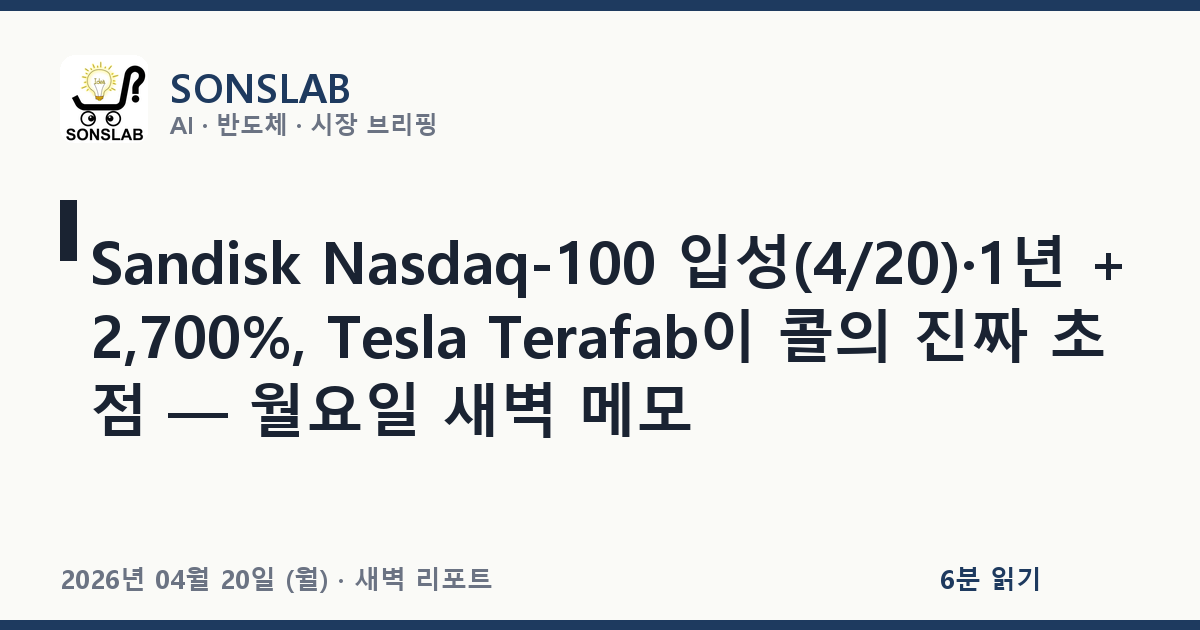
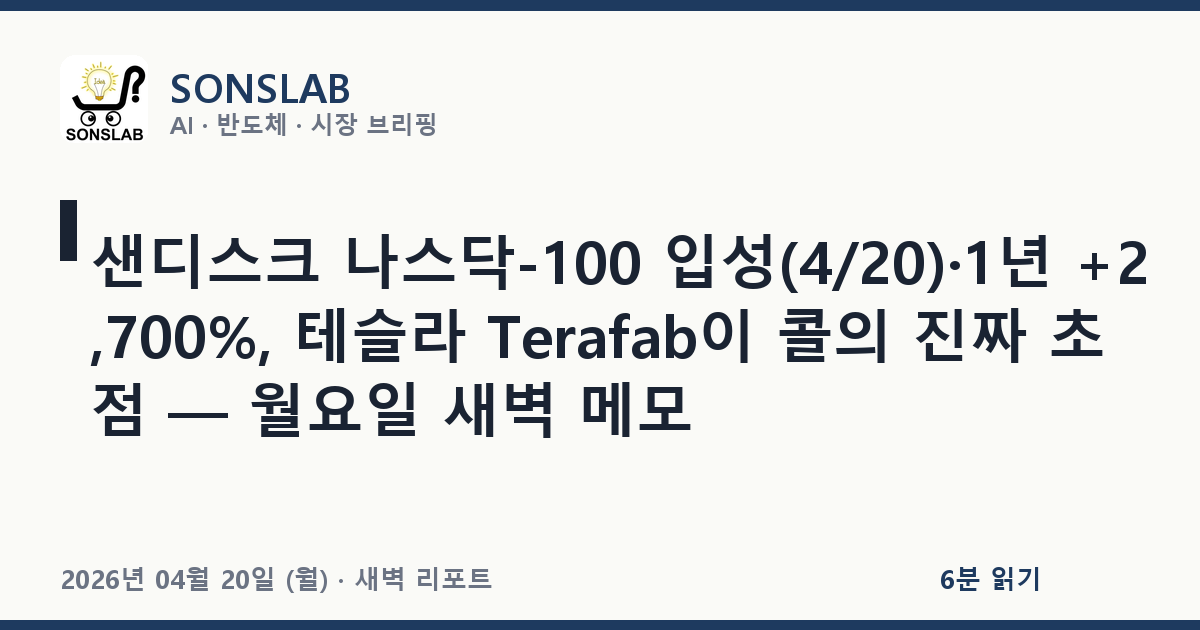
Update: 2026-04-20 18:40

diff --git a/posts/2026-04-20-am06-ai-tech-news.html b/posts/2026-04-20-am06-ai-tech-news.html
@@ -3,7 +3,7 @@
 <head>
     <meta charset="UTF-8">
     <meta name="viewport" content="width=device-width, initial-scale=1.0">
-    <title>Sandisk Nasdaq-100 입성(4/20)·1년 +2,700%, Tesla Terafab이 콜의 진짜 초점 — 월요일 새벽 메모 — SONSLAB</title>
+    <title>샌디스크 나스닥-100 입성(4/20)·1년 +2,700%, 테슬라 Terafab이 콜의 진짜 초점 — 월요일 새벽 메모 — SONSLAB</title>
     <link rel="icon" href="../assets/logo.jpg">
     <link rel="alternate" type="application/atom+xml" title="SONSLAB Feed" href="../feed.xml">
     <link rel="preconnect" href="https://fonts.googleapis.com">
@@ -16,13 +16,13 @@
     <link rel="canonical" href="https://shonsubong.github.io/sonslab-blog/posts/2026-04-20-am06-ai-tech-news.html">
     <meta property="og:site_name" content="SONSLAB">
     <meta property="og:type" content="article">
-    <meta property="og:title" content="Sandisk Nasdaq-100 입성(4/20)·1년 +2,700%, Tesla Terafab이 콜의 진짜 초점 — 월요일 새벽 메모">
+    <meta property="og:title" content="샌디스크 나스닥-100 입성(4/20)·1년 +2,700%, 테슬라 Terafab이 콜의 진짜 초점 — 월요일 새벽 메모">
     <meta property="og:description" content="월요일 새벽, 미국장은 이따 열린다. 주말 내내 쓰인 얘기들을 월요일 아침에 다시 꺼내는 건 피하고 싶어서, 오늘 장 열리기 전까지 오늘 실제로 새로 벌어지는 일 두 개만 짚고 출근 준비한다.">
     <meta property="og:url" content="https://shonsubong.github.io/sonslab-blog/posts/2026-04-20-am06-ai-tech-news.html">
     <meta property="og:image" content="https://shonsubong.github.io/sonslab-blog/assets/og/2026-04-20-am06-ai-tech-news.png">
     <meta property="og:locale" content="ko_KR">
     <meta name="twitter:card" content="summary_large_image">
-    <meta name="twitter:title" content="Sandisk Nasdaq-100 입성(4/20)·1년 +2,700%, Tesla Terafab이 콜의 진짜 초점 — 월요일 새벽 메모">
+    <meta name="twitter:title" content="샌디스크 나스닥-100 입성(4/20)·1년 +2,700%, 테슬라 Terafab이 콜의 진짜 초점 — 월요일 새벽 메모">
     <meta name="twitter:description" content="월요일 새벽, 미국장은 이따 열린다. 주말 내내 쓰인 얘기들을 월요일 아침에 다시 꺼내는 건 피하고 싶어서, 오늘 장 열리기 전까지 오늘 실제로 새로 벌어지는 일 두 개만 짚고 출근 준비한다.">
     <meta name="twitter:image" content="https://shonsubong.github.io/sonslab-blog/assets/og/2026-04-20-am06-ai-tech-news.png">
     <meta property="article:published_time" content="2026-04-20T06:12:00+09:00">
@@ -56,8 +56,8 @@
     } catch (e) {}
 })();
 </script>
-    <script type="application/ld+json">{"@context": "https://schema.org", "@type": "BlogPosting", "headline": "Sandisk Nasdaq-100 입성(4/20)·1년 +2,700%, Tesla Terafab이 콜의 진짜 초점 — 월요일 새벽 메모", "description": "월요일 새벽, 미국장은 이따 열린다. 주말 내내 쓰인 얘기들을 월요일 아침에 다시 꺼내는 건 피하고 싶어서, 오늘 장 열리기 전까지 오늘 실제로 새로 벌어지는 일 두 개만 짚고 출근 준비한다.", "url": "https://shonsubong.github.io/sonslab-blog/posts/2026-04-20-am06-ai-tech-news.html", "mainEntityOfPage": "https://shonsubong.github.io/sonslab-blog/posts/2026-04-20-am06-ai-tech-news.html", "inLanguage": "ko", "image": "https://shonsubong.github.io/sonslab-blog/assets/og/2026-04-20-am06-ai-tech-news.png", "author": {"@type": "Person", "name": "SONSLAB"}, "publisher": {"@type": "Organization", "name": "SONSLAB", "logo": {"@type": "ImageObject", "url": "https://shonsubong.github.io/sonslab-blog/assets/logo.jpg"}}, "datePublished": "2026-04-20T06:12:00+09:00", "dateModified": "2026-04-20T06:12:00+09:00"}</script>
-    <script type="application/ld+json">{"@context": "https://schema.org", "@type": "BreadcrumbList", "itemListElement": [{"@type": "ListItem", "position": 1, "name": "SONSLAB", "item": "https://shonsubong.github.io/sonslab-blog/"}, {"@type": "ListItem", "position": 2, "name": "글", "item": "https://shonsubong.github.io/sonslab-blog/#posts"}, {"@type": "ListItem", "position": 3, "name": "Sandisk Nasdaq-100 입성(4/20)·1년 +2,700%, Tesla Terafab이 콜의 진짜 초점 — 월요일 새벽 메모", "item": "https://shonsubong.github.io/sonslab-blog/posts/2026-04-20-am06-ai-tech-news.html"}]}</script>
+    <script type="application/ld+json">{"@context": "https://schema.org", "@type": "BlogPosting", "headline": "샌디스크 나스닥-100 입성(4/20)·1년 +2,700%, 테슬라 Terafab이 콜의 진짜 초점 — 월요일 새벽 메모", "description": "월요일 새벽, 미국장은 이따 열린다. 주말 내내 쓰인 얘기들을 월요일 아침에 다시 꺼내는 건 피하고 싶어서, 오늘 장 열리기 전까지 오늘 실제로 새로 벌어지는 일 두 개만 짚고 출근 준비한다.", "url": "https://shonsubong.github.io/sonslab-blog/posts/2026-04-20-am06-ai-tech-news.html", "mainEntityOfPage": "https://shonsubong.github.io/sonslab-blog/posts/2026-04-20-am06-ai-tech-news.html", "inLanguage": "ko", "image": "https://shonsubong.github.io/sonslab-blog/assets/og/2026-04-20-am06-ai-tech-news.png", "author": {"@type": "Person", "name": "SONSLAB"}, "publisher": {"@type": "Organization", "name": "SONSLAB", "logo": {"@type": "ImageObject", "url": "https://shonsubong.github.io/sonslab-blog/assets/logo.jpg"}}, "datePublished": "2026-04-20T06:12:00+09:00", "dateModified": "2026-04-20T06:12:00+09:00"}</script>
+    <script type="application/ld+json">{"@context": "https://schema.org", "@type": "BreadcrumbList", "itemListElement": [{"@type": "ListItem", "position": 1, "name": "SONSLAB", "item": "https://shonsubong.github.io/sonslab-blog/"}, {"@type": "ListItem", "position": 2, "name": "글", "item": "https://shonsubong.github.io/sonslab-blog/#posts"}, {"@type": "ListItem", "position": 3, "name": "샌디스크 나스닥-100 입성(4/20)·1년 +2,700%, 테슬라 Terafab이 콜의 진짜 초점 — 월요일 새벽 메모", "item": "https://shonsubong.github.io/sonslab-blog/posts/2026-04-20-am06-ai-tech-news.html"}]}</script>
 </head>
 <body class="post-page">
     <div class="reading-progress" id="reading-progress" role="progressbar" aria-label="읽기 진행률"></div>
@@ -101,7 +101,7 @@
 <article class="post-article">
     <div class="post-header">
         <a href="../index.html" class="back-link">← 전체 글 목록</a>
-        <h1>Sandisk Nasdaq-100 입성(4/20)·1년 +2,700%, Tesla Terafab이 콜의 진짜 초점 — 월요일 새벽 메모</h1>
+        <h1>샌디스크 나스닥-100 입성(4/20)·1년 +2,700%, 테슬라 Terafab이 콜의 진짜 초점 — 월요일 새벽 메모</h1>
         <div class="post-meta">
             <span class="time-label">새벽 리포트</span>
             <span>2026년 04월 20일 (월) · 06:12</span>
@@ -117,9 +117,9 @@
     <details class="post-toc" open><summary>목차</summary><div class="toc">
 <div class="toc">
 <ul>
-<li><a href="#sandisk-nasdaq-100-4201-2700-tesla-terafab">Sandisk Nasdaq-100 입성(4/20)·1년 +2,700%, Tesla Terafab이 콜의 진짜 초점 — 월요일 새벽 메모</a><ul>
-<li><a href="#sandisk-nasdaq-100-atlassian">Sandisk가 오늘 Nasdaq-100에 들어간다 — Atlassian이 빠진다</a></li>
-<li><a href="#tesla-q1-d-2-eps-terafab-capex">Tesla Q1 D-2 — 콜의 진짜 초점은 EPS가 아니라 Terafab CapEx 가이드</a></li>
+<li><a href="#-100-4201-2700-terafab">샌디스크 나스닥-100 입성(4/20)·1년 +2,700%, 테슬라 Terafab이 콜의 진짜 초점 — 월요일 새벽 메모</a><ul>
+<li><a href="#-100-atlassian">샌디스크가 오늘 나스닥-100에 들어간다 — Atlassian이 빠진다</a></li>
+<li><a href="#1-d-2-eps-terafab">테슬라 1분기 D-2 — 콜의 진짜 초점은 EPS가 아니라 Terafab 설비투자 가이드</a></li>
 </ul>
 </li>
 </ul>
@@ -128,17 +128,17 @@
 </div>
 </details>
     <div class="post-content">
-<h1 id="sandisk-nasdaq-100-4201-2700-tesla-terafab">Sandisk Nasdaq-100 입성(4/20)·1년 +2,700%, Tesla Terafab이 콜의 진짜 초점 — 월요일 새벽 메모</h1>
+<h1 id="-100-4201-2700-terafab">샌디스크 나스닥-100 입성(4/20)·1년 +2,700%, 테슬라 Terafab이 콜의 진짜 초점 — 월요일 새벽 메모</h1>
 <p>월요일 새벽, 미국장은 이따 열린다. 주말 내내 쓰인 얘기들을 월요일 아침에 다시 꺼내는 건 피하고 싶어서, 오늘 장 열리기 전까지 <strong>오늘 실제로 새로 벌어지는 일</strong> 두 개만 짚고 출근 준비한다.</p>
 <hr />
-<h2 id="sandisk-nasdaq-100-atlassian">Sandisk가 오늘 Nasdaq-100에 들어간다 — Atlassian이 빠진다</h2>
-<p><a href="https://ir.nasdaq.com/news-releases/news-release-details/sandisk-corporation-join-nasdaq-100-indexr-beginning-april-20">Nasdaq 공시</a>와 <a href="https://www.globenewswire.com/news-release/2026/04/11/3272086/6948/en/Sandisk-Corporation-to-Join-the-Nasdaq-100-Index-Beginning-April-20-2026.html">Globe Newswire 릴리스</a>에 따르면 오늘(4/20) 장 시작 전에 Sandisk(SNDK)가 Atlassian(TEAM)을 대신해서 Nasdaq-100에 편입된다. 편입 발표 이후 주가는 <a href="https://finance.yahoo.com/markets/stocks/articles/sandisk-sndk-joins-nasdaq-100-002337717.html">한 달 만에 +50%, 지난 1년 +2,700%</a>. 2025년 초 Western Digital에서 스핀오프된 뒤 데이터센터 스토리지 수요에 올라타서 여기까지 왔다.</p>
-<p>이 교체가 단순한 리밸런싱이 아닌 이유는 <strong>"어떤 종목이 빠지고 어떤 종목이 들어가는가"</strong> 의 의미 때문이다. Atlassian — 협업·지식관리 SaaS의 대표주 — 가 나가고, NAND·SSD 만드는 회사가 들어간다. <a href="https://sherwood.news/markets/sandisk-to-join-the-nasdaq-100-index/">Sherwood News</a>와 <a href="https://markets.financialcontent.com/stocks/article/marketminute-2026-4-14-silicon-renaissance-sandisk-set-to-join-nasdaq-100-as-atlassian-exits-in-major-ai-driven-index-reshuffle">FinancialContent</a>가 "Silicon Renaissance"라는 표현을 쓰는 게 그래서다. 지난 몇 년간 밸류 확장의 중심이 SaaS였다면, 2024~2026년은 그 자리를 AI 인프라·메모리·스토리지 하드웨어가 채우고 있다.</p>
-<p>반도체 업계 안에서 일하는 입장에서 이 뉴스의 진짜 무게는 지수 편입 자체가 아니라, <strong>메모리/스토리지 공급 사이클의 온도계</strong>라는 데 있다. 지난주에 정리했던 SK하이닉스·삼성 HBM4 진도, 엔비디아의 Q4 16-Hi HBM 요청, 삼성 <a href="https://www.trendforce.com/news/2025/12/30/news-samsung-reportedly-plans-50-hbm-capacity-surge-in-2026-spotlight-on-hbm4">HBM 캐파 +50% 계획</a> — 이게 다 같은 그림의 조각이다. 데이터센터 낸드·SSD까지 비슷한 공급 타이트니스에 걸려 있고, <a href="https://www.trendforce.com/news/2025/12/24/news-samsung-sk-hynix-reportedly-plan-20-hbm3e-price-hike-for-2026-as-nvidia-h200-asic-demand-rises/">TrendForce의 HBM3E +20% 가격 인상 리포트</a>까지 겹치면 "2026년 메모리 사이클은 AI가 밀어 올린다"가 확인되는 구간이다. 현직자 입장에서는 패키징 라인 예약이 언제까지 꽉 차 있을지, 서브스트레이트 공급이 정상화되는 포인트가 언제일지가 훨씬 더 체감에 가깝다.</p>
-<p>정리하면, 오늘의 Nasdaq-100 리셔플은 <strong>"AI 수요 → 메모리·스토리지 하드웨어 수혜 → 지수 편입"</strong> 이라는 긴 체인의 마지막 한 칸이 채워지는 신호에 가깝다. SaaS 밸류가 당분간 하드웨어 밸류를 못 따라잡는다는 말로 바꿔도 큰 틀은 비슷하다.</p>
+<h2 id="-100-atlassian">샌디스크가 오늘 나스닥-100에 들어간다 — Atlassian이 빠진다</h2>
+<p><a href="https://ir.nasdaq.com/news-releases/news-release-details/sandisk-corporation-join-nasdaq-100-indexr-beginning-april-20">Nasdaq 공시</a>와 <a href="https://www.globenewswire.com/news-release/2026/04/11/3272086/6948/en/Sandisk-Corporation-to-Join-the-Nasdaq-100-Index-Beginning-April-20-2026.html">Globe Newswire 릴리스</a>에 따르면 오늘(4/20) 장 시작 전에 샌디스크(SNDK)가 Atlassian(TEAM)을 대신해서 나스닥-100에 편입된다. 편입 발표 이후 주가는 <a href="https://finance.yahoo.com/markets/stocks/articles/sandisk-sndk-joins-nasdaq-100-002337717.html">한 달 만에 +50%, 지난 1년 +2,700%</a>. 2025년 초 웨스턴디지털에서 스핀오프된 뒤 데이터센터 스토리지 수요에 올라타서 여기까지 왔다.</p>
+<p>이 교체가 단순한 리밸런싱이 아닌 이유는 <strong>"어떤 종목이 빠지고 어떤 종목이 들어가는가"</strong> 의 의미 때문이다. Atlassian — 협업·지식관리 SaaS의 대표주 — 가 나가고, 낸드·SSD 만드는 회사가 들어간다. <a href="https://sherwood.news/markets/sandisk-to-join-the-nasdaq-100-index/">Sherwood News</a>와 <a href="https://markets.financialcontent.com/stocks/article/marketminute-2026-4-14-silicon-renaissance-sandisk-set-to-join-nasdaq-100-as-atlassian-exits-in-major-ai-driven-index-reshuffle">FinancialContent</a>가 "실리콘 르네상스"라는 표현을 쓰는 게 그래서다. 지난 몇 년간 밸류 확장의 중심이 SaaS였다면, 2024~2026년은 그 자리를 AI 인프라·메모리·스토리지 하드웨어가 채우고 있다.</p>
+<p>반도체 업계 안에서 일하는 입장에서 이 뉴스의 진짜 무게는 지수 편입 자체가 아니라, <strong>메모리/스토리지 공급 사이클의 온도계</strong>라는 데 있다. 지난주에 정리했던 SK하이닉스·삼성 HBM4 진도, 엔비디아의 4분기 16단 HBM 요청, 삼성 <a href="https://www.trendforce.com/news/2025/12/30/news-samsung-reportedly-plans-50-hbm-capacity-surge-in-2026-spotlight-on-hbm4">HBM 생산능력 +50% 계획</a> — 이게 다 같은 그림의 조각이다. 데이터센터 낸드·SSD까지 비슷한 공급 타이트니스에 걸려 있고, <a href="https://www.trendforce.com/news/2025/12/24/news-samsung-sk-hynix-reportedly-plan-20-hbm3e-price-hike-for-2026-as-nvidia-h200-asic-demand-rises/">TrendForce의 HBM3E +20% 가격 인상 리포트</a>까지 겹치면 "2026년 메모리 사이클은 AI가 밀어 올린다"가 확인되는 구간이다. 현직자 입장에서는 패키징 라인 예약이 언제까지 꽉 차 있을지, 서브스트레이트 공급이 정상화되는 포인트가 언제일지가 훨씬 더 체감에 가깝다.</p>
+<p>정리하면, 오늘의 나스닥-100 리셔플은 <strong>"AI 수요 → 메모리·스토리지 하드웨어 수혜 → 지수 편입"</strong> 이라는 긴 체인의 마지막 한 칸이 채워지는 신호에 가깝다. SaaS 밸류가 당분간 하드웨어 밸류를 못 따라잡는다는 말로 바꿔도 큰 틀은 비슷하다.</p>
 <hr />
-<h2 id="tesla-q1-d-2-eps-terafab-capex">Tesla Q1 D-2 — 콜의 진짜 초점은 EPS가 아니라 Terafab CapEx 가이드</h2>
-<p>이번 주 수요일(4/22) 장 마감 후 Tesla Q1 어닝. D-2다. 컨센서스 숫자(매출 $23.06B / EPS $0.24, 분포 $0.09~$0.44)는 어제 오후 포스트에서 한 번 정리했으니 여기서는 반복하지 않는다. 대신 주말에 자료 다시 보면서 "<strong>이번 콜의 한 줄은 EPS가 아니라 Terafab 관련 문장이 될 거다</strong>" 라는 쪽으로 확신이 더 커졌다.</p>
+<h2 id="1-d-2-eps-terafab">테슬라 1분기 D-2 — 콜의 진짜 초점은 EPS가 아니라 Terafab 설비투자 가이드</h2>
+<p>이번 주 수요일(4/22) 장 마감 후 테슬라 1분기 실적 발표. D-2다. 컨센서스 숫자(매출 $23.06B / EPS $0.24, 분포 $0.09~$0.44)는 어제 오후 포스트에서 한 번 정리했으니 여기서는 반복하지 않는다. 대신 주말에 자료 다시 보면서 "<strong>이번 콜의 한 줄은 EPS가 아니라 Terafab 관련 문장이 될 거다</strong>" 라는 쪽으로 확신이 더 커졌다.</p>
 <p>Terafab은 3월 21일 Musk가 공개한 Tesla·SpaceX·xAI 합작 AI 칩 팹 프로젝트다. 4월 7일에 <a href="https://247wallst.com/investing/2026/04/07/intel-rises-3-as-spacex-tesla-and-xai-tap-chip-giant-for-ambitious-terafab-project/">Intel이 파운드리 쪽 파트너로 합류</a>한다는 보도가 나왔고, 파일럿 페이즈만 $20~25B 수준으로 회자되고 있다. 규모는 "연간 1 TW의 AI 컴퓨트"라는 말이 붙어 있지만 이건 어디까지나 장기 비전이고, 전체 빌드아웃까지 가면 Barclays가 <strong>mid-single digit trillion</strong> 단위로 본다는 <a href="https://www.ad-hoc-news.de/boerse/news/ueberblick/tesla-s-trillion-dollar-tab-looms-over-earnings/69168161">얘기</a>까지 돌고 있다. 참고로 Tesla의 2026년 전체 CapEx 가이던스가 $20B 수준이라, Terafab이 <strong>그 가이던스 안인지 밖인지</strong> — 이 한 문장이 수요일 콜에서 가장 비싸게 값이 매겨질 대목이다.</p>
 <p>Tesla 투자자 관점에서 접근해보면 시나리오가 세 갈래다.</p>
 <ol>
@@ -153,7 +153,7 @@
     
 <div class="post-share">
     <span class="share-label">공유하기</span>
-    <a href="https://twitter.com/intent/tweet?text=Sandisk Nasdaq-100 입성(4/20)·1년 +2,700%, Tesla Terafab이 콜의 진짜 초점 — 월요일 새벽 메모&url=https://shonsubong.github.io/sonslab-blog/posts/2026-04-20-am06-ai-tech-news.html"
+    <a href="https://twitter.com/intent/tweet?text=샌디스크 나스닥-100 입성(4/20)·1년 +2,700%, 테슬라 Terafab이 콜의 진짜 초점 — 월요일 새벽 메모&url=https://shonsubong.github.io/sonslab-blog/posts/2026-04-20-am06-ai-tech-news.html"
        class="share-btn" target="_blank" rel="noopener" aria-label="X(Twitter)에 공유">
         <span>X</span>
     </a>

diff --git a/index.html b/index.html
@@ -156,7 +156,7 @@
                 <tr class="live">
                     <td class="td-time">06:12</td>
                     <td class="td-kind">새벽 리포트</td>
-                    <td class="td-title"><a href="posts/2026-04-20-am06-ai-tech-news.html">Sandisk Nasdaq-100 입성(4/20)·1년 +2,700%, Tesla Terafab이 콜의 진짜 초점 — 월요일 새벽 메모</a><span class="new-mark">NEW</span></td>
+                    <td class="td-title"><a href="posts/2026-04-20-am06-ai-tech-news.html">샌디스크 나스닥-100 입성(4/20)·1년 +2,700%, 테슬라 Terafab이 콜의 진짜 초점 — 월요일 새벽 메모</a><span class="new-mark">NEW</span></td>
                     <td class="td-read">6분</td>
                 </tr>
                 <tr class="live">
@@ -220,7 +220,7 @@
                 <div class="side-hour">06</div>
                 <div class="side-body">
                     <div class="side-kind">새벽<span class="live-mark">LIVE</span></div>
-                    <div class="side-title"><a href="posts/2026-04-20-am06-ai-tech-news.html">Sandisk Nasdaq-100 입성(4/20)·1년 +2,700%, Tesla Terafab이 콜의 진짜 초점 — 월요일 새벽 메모</a></div>
+                    <div class="side-title"><a href="posts/2026-04-20-am06-ai-tech-news.html">샌디스크 나스닥-100 입성(4/20)·1년 +2,700%, 테슬라 Terafab이 콜의 진짜 초점 — 월요일 새벽 메모</a></div>
                 </div>
             </div>
             <div class="side-today-row">
@@ -296,7 +296,7 @@
                     <div class="sched-kind">새벽 리포트</div>
                 </div>
                 <div class="sched-body">
-                    <div class="sched-title"><a href="posts/2026-04-20-am06-ai-tech-news.html">Sandisk Nasdaq-100 입성(4/20)·1년 +2,700%, Tesla Terafab이 콜의 진짜 초점 — 월요일 새벽 메모</a></div>
+                    <div class="sched-title"><a href="posts/2026-04-20-am06-ai-tech-news.html">샌디스크 나스닥-100 입성(4/20)·1년 +2,700%, 테슬라 Terafab이 콜의 진짜 초점 — 월요일 새벽 메모</a></div>
                     <div class="sched-status">● 발행됨 · 6분</div>
                 </div>
             </div>
@@ -431,14 +431,14 @@
             <p class="lead">점심 먹고 자리로 들어왔다. 오전에 새벽 포스트로 Sandisk Nasdaq-100 편입이랑 Tesla 수요일 콜 Terafab 각도를 짚어둔 상태라, 여기서는 오늘 오전 KOSPI에서도 종일 얘기 도는 메모리 공급망 재편 쪽 한 줄기만 정리해두고 간다.</p>
             <a href="posts/2026-04-20-pm12-ai-tech-news.html" class="read-more">계속 읽기 →</a>
         </article>
-        <article class="post-item" data-time="새벽 리포트" data-topics="반도체|빅테크/시장|투자/매크로" data-search="sandisk nasdaq-100 입성(4/20)·1년 +2,700%, tesla terafab이 콜의 진짜 초점 — 월요일 새벽 메모 월요일 새벽, 미국장은 이따 열린다. 주말 내내 쓰인 얘기들을 월요일 아침에 다시 꺼내는 건 피하고 싶어서, 오늘 장 열리기 전까지 오늘 실제로 새로 벌어지는 일 두 개만 짚고 출근 준비한다. 반도체 빅테크/시장 투자/매크로">
+        <article class="post-item" data-time="새벽 리포트" data-topics="반도체|빅테크/시장|투자/매크로" data-search="샌디스크 나스닥-100 입성(4/20)·1년 +2,700%, 테슬라 terafab이 콜의 진짜 초점 — 월요일 새벽 메모 월요일 새벽, 미국장은 이따 열린다. 주말 내내 쓰인 얘기들을 월요일 아침에 다시 꺼내는 건 피하고 싶어서, 오늘 장 열리기 전까지 오늘 실제로 새로 벌어지는 일 두 개만 짚고 출근 준비한다. 반도체 빅테크/시장 투자/매크로">
             <div class="post-meta">
                 <span class="time-label">새벽 리포트</span>
                 <span>·</span>
                 <time>06:12</time><span>·</span>
                 <span>6분 읽기</span>
             </div>
-            <h2><a href="posts/2026-04-20-am06-ai-tech-news.html">Sandisk Nasdaq-100 입성(4/20)·1년 +2,700%, Tesla Terafab이 콜의 진짜 초점 — 월요일 새벽 메모</a></h2>
+            <h2><a href="posts/2026-04-20-am06-ai-tech-news.html">샌디스크 나스닥-100 입성(4/20)·1년 +2,700%, 테슬라 Terafab이 콜의 진짜 초점 — 월요일 새벽 메모</a></h2>
             <p class="lead">월요일 새벽, 미국장은 이따 열린다. 주말 내내 쓰인 얘기들을 월요일 아침에 다시 꺼내는 건 피하고 싶어서, 오늘 장 열리기 전까지 오늘 실제로 새로 벌어지는 일 두 개만 짚고 출근 준비한다.</p>
             <a href="posts/2026-04-20-am06-ai-tech-news.html" class="read-more">계속 읽기 →</a>
         </article>

diff --git a/posts/2026-04-19-pm22-ai-tech-news.html b/posts/2026-04-19-pm22-ai-tech-news.html
@@ -170,13 +170,13 @@
     </a>
     <a href="2026-04-20-am06-ai-tech-news.html" class="post-nav-link next">
         <span class="post-nav-label">다음 글 →</span>
-        <span class="post-nav-title">Sandisk Nasdaq-100 입성(4/20)·1년 +2,700%, Tesla Terafab이 콜의 진짜 초점 — 월요일 새벽 메모</span>
+        <span class="post-nav-title">샌디스크 나스닥-100 입성(4/20)·1년 +2,700%, 테슬라 Terafab이 콜의 진짜 초점 — 월요일 새벽 메모</span>
     </a>
 </nav>
     
 <section class="related-posts" aria-label="최근 다른 리포트">
     <div class="related-posts-label">최근 다른 리포트</div>
-    <ul class="related-list"><li><a href="2026-04-20-pm17-ai-tech-news.html"><span class="related-title">Hormuz 재봉쇄로 Brent $95·WTI $87, 이번 주 Tesla(4/22)·SK hynix·Intel(4/23) 삼중 콜 — 월요일 오후 메모</span><span class="related-date">2026-04-20 · 오후 브리핑 · 17:16</span></a></li><li><a href="2026-04-20-pm12-ai-tech-news.html"><span class="related-title">SK hynix HBM4 20~30% 감산설, Samsung이 Rubin 리더로 역전 — 월요일 점심 메모</span><span class="related-date">2026-04-20 · 오전 브리핑 · 12:18</span></a></li><li><a href="2026-04-20-am06-ai-tech-news.html"><span class="related-title">Sandisk Nasdaq-100 입성(4/20)·1년 +2,700%, Tesla Terafab이 콜의 진짜 초점 — 월요일 새벽 메모</span><span class="related-date">2026-04-20 · 새벽 리포트 · 06:12</span></a></li><li><a href="2026-04-18-pm22-ai-tech-news.html"><span class="related-title">삼성 HBM4 로직 다이 40~50% 인상, Nvidia Ising 디코더 살펴본 밤</span><span class="related-date">2026-04-18 · 저녁 마감 · 22:17</span></a></li><li><a href="2026-04-18-pm17-ai-tech-news.html"><span class="related-title">Opus 4.7 MRCR 78→32 낙폭, 개인 RAG 리포로 4.6 vs 4.7 직접 재현 — 토요일 오후 실험 메모</span><span class="related-date">2026-04-18 · 오후 브리핑 · 17:14</span></a></li></ul>
+    <ul class="related-list"><li><a href="2026-04-20-pm17-ai-tech-news.html"><span class="related-title">Hormuz 재봉쇄로 Brent $95·WTI $87, 이번 주 Tesla(4/22)·SK hynix·Intel(4/23) 삼중 콜 — 월요일 오후 메모</span><span class="related-date">2026-04-20 · 오후 브리핑 · 17:16</span></a></li><li><a href="2026-04-20-pm12-ai-tech-news.html"><span class="related-title">SK hynix HBM4 20~30% 감산설, Samsung이 Rubin 리더로 역전 — 월요일 점심 메모</span><span class="related-date">2026-04-20 · 오전 브리핑 · 12:18</span></a></li><li><a href="2026-04-20-am06-ai-tech-news.html"><span class="related-title">샌디스크 나스닥-100 입성(4/20)·1년 +2,700%, 테슬라 Terafab이 콜의 진짜 초점 — 월요일 새벽 메모</span><span class="related-date">2026-04-20 · 새벽 리포트 · 06:12</span></a></li><li><a href="2026-04-18-pm22-ai-tech-news.html"><span class="related-title">삼성 HBM4 로직 다이 40~50% 인상, Nvidia Ising 디코더 살펴본 밤</span><span class="related-date">2026-04-18 · 저녁 마감 · 22:17</span></a></li><li><a href="2026-04-18-pm17-ai-tech-news.html"><span class="related-title">Opus 4.7 MRCR 78→32 낙폭, 개인 RAG 리포로 4.6 vs 4.7 직접 재현 — 토요일 오후 실험 메모</span><span class="related-date">2026-04-18 · 오후 브리핑 · 17:14</span></a></li></ul>
 </section>
 </article>
 

diff --git a/posts/COWORK_AUTOBUILD_SETUP.html b/posts/COWORK_AUTOBUILD_SETUP.html
@@ -525,7 +525,7 @@ powershell -NoProfile -ExecutionPolicy Bypass -File &quot;X:\Work_Agent\sonslab-
     
 <section class="related-posts" aria-label="최근 다른 리포트">
     <div class="related-posts-label">최근 다른 리포트</div>
-    <ul class="related-list"><li><a href="2026-04-20-pm17-ai-tech-news.html"><span class="related-title">Hormuz 재봉쇄로 Brent $95·WTI $87, 이번 주 Tesla(4/22)·SK hynix·Intel(4/23) 삼중 콜 — 월요일 오후 메모</span><span class="related-date">2026-04-20 · 오후 브리핑 · 17:16</span></a></li><li><a href="2026-04-20-pm12-ai-tech-news.html"><span class="related-title">SK hynix HBM4 20~30% 감산설, Samsung이 Rubin 리더로 역전 — 월요일 점심 메모</span><span class="related-date">2026-04-20 · 오전 브리핑 · 12:18</span></a></li><li><a href="2026-04-20-am06-ai-tech-news.html"><span class="related-title">Sandisk Nasdaq-100 입성(4/20)·1년 +2,700%, Tesla Terafab이 콜의 진짜 초점 — 월요일 새벽 메모</span><span class="related-date">2026-04-20 · 새벽 리포트 · 06:12</span></a></li><li><a href="2026-04-19-pm22-ai-tech-news.html"><span class="related-title">Opus 4.7 벤치 정리, 알리바바 자체 칩 1만 개 데이터센터 — 주말 마감 메모</span><span class="related-date">2026-04-19 · 저녁 마감 · 22:18</span></a></li><li><a href="2026-04-19-pm17-ai-tech-news.html"><span class="related-title">테슬라 실적 3일 전 — 로보택시 3개 도시, 옵티머스 3세대 지연 속 전망</span><span class="related-date">2026-04-19 · 오후 브리핑 · 17:14</span></a></li></ul>
+    <ul class="related-list"><li><a href="2026-04-20-pm17-ai-tech-news.html"><span class="related-title">Hormuz 재봉쇄로 Brent $95·WTI $87, 이번 주 Tesla(4/22)·SK hynix·Intel(4/23) 삼중 콜 — 월요일 오후 메모</span><span class="related-date">2026-04-20 · 오후 브리핑 · 17:16</span></a></li><li><a href="2026-04-20-pm12-ai-tech-news.html"><span class="related-title">SK hynix HBM4 20~30% 감산설, Samsung이 Rubin 리더로 역전 — 월요일 점심 메모</span><span class="related-date">2026-04-20 · 오전 브리핑 · 12:18</span></a></li><li><a href="2026-04-20-am06-ai-tech-news.html"><span class="related-title">샌디스크 나스닥-100 입성(4/20)·1년 +2,700%, 테슬라 Terafab이 콜의 진짜 초점 — 월요일 새벽 메모</span><span class="related-date">2026-04-20 · 새벽 리포트 · 06:12</span></a></li><li><a href="2026-04-19-pm22-ai-tech-news.html"><span class="related-title">Opus 4.7 벤치 정리, 알리바바 자체 칩 1만 개 데이터센터 — 주말 마감 메모</span><span class="related-date">2026-04-19 · 저녁 마감 · 22:18</span></a></li><li><a href="2026-04-19-pm17-ai-tech-news.html"><span class="related-title">테슬라 실적 3일 전 — 로보택시 3개 도시, 옵티머스 3세대 지연 속 전망</span><span class="related-date">2026-04-19 · 오후 브리핑 · 17:14</span></a></li></ul>
 </section>
 </article>
 

diff --git a/posts/2025-12-01-pm21-ai-tech-news.html b/posts/2025-12-01-pm21-ai-tech-news.html
@@ -198,7 +198,7 @@
     
 <section class="related-posts" aria-label="최근 다른 리포트">
     <div class="related-posts-label">최근 다른 리포트</div>
-    <ul class="related-list"><li><a href="2026-04-20-pm17-ai-tech-news.html"><span class="related-title">Hormuz 재봉쇄로 Brent $95·WTI $87, 이번 주 Tesla(4/22)·SK hynix·Intel(4/23) 삼중 콜 — 월요일 오후 메모</span><span class="related-date">2026-04-20 · 오후 브리핑 · 17:16</span></a></li><li><a href="2026-04-20-pm12-ai-tech-news.html"><span class="related-title">SK hynix HBM4 20~30% 감산설, Samsung이 Rubin 리더로 역전 — 월요일 점심 메모</span><span class="related-date">2026-04-20 · 오전 브리핑 · 12:18</span></a></li><li><a href="2026-04-20-am06-ai-tech-news.html"><span class="related-title">Sandisk Nasdaq-100 입성(4/20)·1년 +2,700%, Tesla Terafab이 콜의 진짜 초점 — 월요일 새벽 메모</span><span class="related-date">2026-04-20 · 새벽 리포트 · 06:12</span></a></li><li><a href="2026-04-19-pm22-ai-tech-news.html"><span class="related-title">Opus 4.7 벤치 정리, 알리바바 자체 칩 1만 개 데이터센터 — 주말 마감 메모</span><span class="related-date">2026-04-19 · 저녁 마감 · 22:18</span></a></li><li><a href="2026-04-19-pm17-ai-tech-news.html"><span class="related-title">테슬라 실적 3일 전 — 로보택시 3개 도시, 옵티머스 3세대 지연 속 전망</span><span class="related-date">2026-04-19 · 오후 브리핑 · 17:14</span></a></li></ul>
+    <ul class="related-list"><li><a href="2026-04-20-pm17-ai-tech-news.html"><span class="related-title">Hormuz 재봉쇄로 Brent $95·WTI $87, 이번 주 Tesla(4/22)·SK hynix·Intel(4/23) 삼중 콜 — 월요일 오후 메모</span><span class="related-date">2026-04-20 · 오후 브리핑 · 17:16</span></a></li><li><a href="2026-04-20-pm12-ai-tech-news.html"><span class="related-title">SK hynix HBM4 20~30% 감산설, Samsung이 Rubin 리더로 역전 — 월요일 점심 메모</span><span class="related-date">2026-04-20 · 오전 브리핑 · 12:18</span></a></li><li><a href="2026-04-20-am06-ai-tech-news.html"><span class="related-title">샌디스크 나스닥-100 입성(4/20)·1년 +2,700%, 테슬라 Terafab이 콜의 진짜 초점 — 월요일 새벽 메모</span><span class="related-date">2026-04-20 · 새벽 리포트 · 06:12</span></a></li><li><a href="2026-04-19-pm22-ai-tech-news.html"><span class="related-title">Opus 4.7 벤치 정리, 알리바바 자체 칩 1만 개 데이터센터 — 주말 마감 메모</span><span class="related-date">2026-04-19 · 저녁 마감 · 22:18</span></a></li><li><a href="2026-04-19-pm17-ai-tech-news.html"><span class="related-title">테슬라 실적 3일 전 — 로보택시 3개 도시, 옵티머스 3세대 지연 속 전망</span><span class="related-date">2026-04-19 · 오후 브리핑 · 17:14</span></a></li></ul>
 </section>
 </article>
 

diff --git a/posts/2025-12-06-pm21-ai-tech-news.html b/posts/2025-12-06-pm21-ai-tech-news.html
@@ -173,7 +173,7 @@
     
 <section class="related-posts" aria-label="최근 다른 리포트">
     <div class="related-posts-label">최근 다른 리포트</div>
-    <ul class="related-list"><li><a href="2026-04-20-pm17-ai-tech-news.html"><span class="related-title">Hormuz 재봉쇄로 Brent $95·WTI $87, 이번 주 Tesla(4/22)·SK hynix·Intel(4/23) 삼중 콜 — 월요일 오후 메모</span><span class="related-date">2026-04-20 · 오후 브리핑 · 17:16</span></a></li><li><a href="2026-04-20-pm12-ai-tech-news.html"><span class="related-title">SK hynix HBM4 20~30% 감산설, Samsung이 Rubin 리더로 역전 — 월요일 점심 메모</span><span class="related-date">2026-04-20 · 오전 브리핑 · 12:18</span></a></li><li><a href="2026-04-20-am06-ai-tech-news.html"><span class="related-title">Sandisk Nasdaq-100 입성(4/20)·1년 +2,700%, Tesla Terafab이 콜의 진짜 초점 — 월요일 새벽 메모</span><span class="related-date">2026-04-20 · 새벽 리포트 · 06:12</span></a></li><li><a href="2026-04-19-pm22-ai-tech-news.html"><span class="related-title">Opus 4.7 벤치 정리, 알리바바 자체 칩 1만 개 데이터센터 — 주말 마감 메모</span><span class="related-date">2026-04-19 · 저녁 마감 · 22:18</span></a></li><li><a href="2026-04-19-pm17-ai-tech-news.html"><span class="related-title">테슬라 실적 3일 전 — 로보택시 3개 도시, 옵티머스 3세대 지연 속 전망</span><span class="related-date">2026-04-19 · 오후 브리핑 · 17:14</span></a></li></ul>
+    <ul class="related-list"><li><a href="2026-04-20-pm17-ai-tech-news.html"><span class="related-title">Hormuz 재봉쇄로 Brent $95·WTI $87, 이번 주 Tesla(4/22)·SK hynix·Intel(4/23) 삼중 콜 — 월요일 오후 메모</span><span class="related-date">2026-04-20 · 오후 브리핑 · 17:16</span></a></li><li><a href="2026-04-20-pm12-ai-tech-news.html"><span class="related-title">SK hynix HBM4 20~30% 감산설, Samsung이 Rubin 리더로 역전 — 월요일 점심 메모</span><span class="related-date">2026-04-20 · 오전 브리핑 · 12:18</span></a></li><li><a href="2026-04-20-am06-ai-tech-news.html"><span class="related-title">샌디스크 나스닥-100 입성(4/20)·1년 +2,700%, 테슬라 Terafab이 콜의 진짜 초점 — 월요일 새벽 메모</span><span class="related-date">2026-04-20 · 새벽 리포트 · 06:12</span></a></li><li><a href="2026-04-19-pm22-ai-tech-news.html"><span class="related-title">Opus 4.7 벤치 정리, 알리바바 자체 칩 1만 개 데이터센터 — 주말 마감 메모</span><span class="related-date">2026-04-19 · 저녁 마감 · 22:18</span></a></li><li><a href="2026-04-19-pm17-ai-tech-news.html"><span class="related-title">테슬라 실적 3일 전 — 로보택시 3개 도시, 옵티머스 3세대 지연 속 전망</span><span class="related-date">2026-04-19 · 오후 브리핑 · 17:14</span></a></li></ul>
 </section>
 </article>
 

diff --git a/posts/2025-12-09-pm22-ai-tech-news.html b/posts/2025-12-09-pm22-ai-tech-news.html
@@ -197,7 +197,7 @@
     
 <section class="related-posts" aria-label="최근 다른 리포트">
     <div class="related-posts-label">최근 다른 리포트</div>
-    <ul class="related-list"><li><a href="2026-04-20-pm17-ai-tech-news.html"><span class="related-title">Hormuz 재봉쇄로 Brent $95·WTI $87, 이번 주 Tesla(4/22)·SK hynix·Intel(4/23) 삼중 콜 — 월요일 오후 메모</span><span class="related-date">2026-04-20 · 오후 브리핑 · 17:16</span></a></li><li><a href="2026-04-20-pm12-ai-tech-news.html"><span class="related-title">SK hynix HBM4 20~30% 감산설, Samsung이 Rubin 리더로 역전 — 월요일 점심 메모</span><span class="related-date">2026-04-20 · 오전 브리핑 · 12:18</span></a></li><li><a href="2026-04-20-am06-ai-tech-news.html"><span class="related-title">Sandisk Nasdaq-100 입성(4/20)·1년 +2,700%, Tesla Terafab이 콜의 진짜 초점 — 월요일 새벽 메모</span><span class="related-date">2026-04-20 · 새벽 리포트 · 06:12</span></a></li><li><a href="2026-04-19-pm22-ai-tech-news.html"><span class="related-title">Opus 4.7 벤치 정리, 알리바바 자체 칩 1만 개 데이터센터 — 주말 마감 메모</span><span class="related-date">2026-04-19 · 저녁 마감 · 22:18</span></a></li><li><a href="2026-04-19-pm17-ai-tech-news.html"><span class="related-title">테슬라 실적 3일 전 — 로보택시 3개 도시, 옵티머스 3세대 지연 속 전망</span><span class="related-date">2026-04-19 · 오후 브리핑 · 17:14</span></a></li></ul>
+    <ul class="related-list"><li><a href="2026-04-20-pm17-ai-tech-news.html"><span class="related-title">Hormuz 재봉쇄로 Brent $95·WTI $87, 이번 주 Tesla(4/22)·SK hynix·Intel(4/23) 삼중 콜 — 월요일 오후 메모</span><span class="related-date">2026-04-20 · 오후 브리핑 · 17:16</span></a></li><li><a href="2026-04-20-pm12-ai-tech-news.html"><span class="related-title">SK hynix HBM4 20~30% 감산설, Samsung이 Rubin 리더로 역전 — 월요일 점심 메모</span><span class="related-date">2026-04-20 · 오전 브리핑 · 12:18</span></a></li><li><a href="2026-04-20-am06-ai-tech-news.html"><span class="related-title">샌디스크 나스닥-100 입성(4/20)·1년 +2,700%, 테슬라 Terafab이 콜의 진짜 초점 — 월요일 새벽 메모</span><span class="related-date">2026-04-20 · 새벽 리포트 · 06:12</span></a></li><li><a href="2026-04-19-pm22-ai-tech-news.html"><span class="related-title">Opus 4.7 벤치 정리, 알리바바 자체 칩 1만 개 데이터센터 — 주말 마감 메모</span><span class="related-date">2026-04-19 · 저녁 마감 · 22:18</span></a></li><li><a href="2026-04-19-pm17-ai-tech-news.html"><span class="related-title">테슬라 실적 3일 전 — 로보택시 3개 도시, 옵티머스 3세대 지연 속 전망</span><span class="related-date">2026-04-19 · 오후 브리핑 · 17:14</span></a></li></ul>
 </section>
 </article>
 

diff --git a/posts/2025-12-13-pm22-ai-tech-news.html b/posts/2025-12-13-pm22-ai-tech-news.html
@@ -228,7 +228,7 @@
     
 <section class="related-posts" aria-label="최근 다른 리포트">
     <div class="related-posts-label">최근 다른 리포트</div>
-    <ul class="related-list"><li><a href="2026-04-20-pm17-ai-tech-news.html"><span class="related-title">Hormuz 재봉쇄로 Brent $95·WTI $87, 이번 주 Tesla(4/22)·SK hynix·Intel(4/23) 삼중 콜 — 월요일 오후 메모</span><span class="related-date">2026-04-20 · 오후 브리핑 · 17:16</span></a></li><li><a href="2026-04-20-pm12-ai-tech-news.html"><span class="related-title">SK hynix HBM4 20~30% 감산설, Samsung이 Rubin 리더로 역전 — 월요일 점심 메모</span><span class="related-date">2026-04-20 · 오전 브리핑 · 12:18</span></a></li><li><a href="2026-04-20-am06-ai-tech-news.html"><span class="related-title">Sandisk Nasdaq-100 입성(4/20)·1년 +2,700%, Tesla Terafab이 콜의 진짜 초점 — 월요일 새벽 메모</span><span class="related-date">2026-04-20 · 새벽 리포트 · 06:12</span></a></li><li><a href="2026-04-19-pm22-ai-tech-news.html"><span class="related-title">Opus 4.7 벤치 정리, 알리바바 자체 칩 1만 개 데이터센터 — 주말 마감 메모</span><span class="related-date">2026-04-19 · 저녁 마감 · 22:18</span></a></li><li><a href="2026-04-19-pm17-ai-tech-news.html"><span class="related-title">테슬라 실적 3일 전 — 로보택시 3개 도시, 옵티머스 3세대 지연 속 전망</span><span class="related-date">2026-04-19 · 오후 브리핑 · 17:14</span></a></li></ul>
+    <ul class="related-list"><li><a href="2026-04-20-pm17-ai-tech-news.html"><span class="related-title">Hormuz 재봉쇄로 Brent $95·WTI $87, 이번 주 Tesla(4/22)·SK hynix·Intel(4/23) 삼중 콜 — 월요일 오후 메모</span><span class="related-date">2026-04-20 · 오후 브리핑 · 17:16</span></a></li><li><a href="2026-04-20-pm12-ai-tech-news.html"><span class="related-title">SK hynix HBM4 20~30% 감산설, Samsung이 Rubin 리더로 역전 — 월요일 점심 메모</span><span class="related-date">2026-04-20 · 오전 브리핑 · 12:18</span></a></li><li><a href="2026-04-20-am06-ai-tech-news.html"><span class="related-title">샌디스크 나스닥-100 입성(4/20)·1년 +2,700%, 테슬라 Terafab이 콜의 진짜 초점 — 월요일 새벽 메모</span><span class="related-date">2026-04-20 · 새벽 리포트 · 06:12</span></a></li><li><a href="2026-04-19-pm22-ai-tech-news.html"><span class="related-title">Opus 4.7 벤치 정리, 알리바바 자체 칩 1만 개 데이터센터 — 주말 마감 메모</span><span class="related-date">2026-04-19 · 저녁 마감 · 22:18</span></a></li><li><a href="2026-04-19-pm17-ai-tech-news.html"><span class="related-title">테슬라 실적 3일 전 — 로보택시 3개 도시, 옵티머스 3세대 지연 속 전망</span><span class="related-date">2026-04-19 · 오후 브리핑 · 17:14</span></a></li></ul>
 </section>
 </article>
 

diff --git a/posts/2025-12-16-pm22-ai-tech-news.html b/posts/2025-12-16-pm22-ai-tech-news.html
@@ -184,7 +184,7 @@
     
 <section class="related-posts" aria-label="최근 다른 리포트">
     <div class="related-posts-label">최근 다른 리포트</div>
-    <ul class="related-list"><li><a href="2026-04-20-pm17-ai-tech-news.html"><span class="related-title">Hormuz 재봉쇄로 Brent $95·WTI $87, 이번 주 Tesla(4/22)·SK hynix·Intel(4/23) 삼중 콜 — 월요일 오후 메모</span><span class="related-date">2026-04-20 · 오후 브리핑 · 17:16</span></a></li><li><a href="2026-04-20-pm12-ai-tech-news.html"><span class="related-title">SK hynix HBM4 20~30% 감산설, Samsung이 Rubin 리더로 역전 — 월요일 점심 메모</span><span class="related-date">2026-04-20 · 오전 브리핑 · 12:18</span></a></li><li><a href="2026-04-20-am06-ai-tech-news.html"><span class="related-title">Sandisk Nasdaq-100 입성(4/20)·1년 +2,700%, Tesla Terafab이 콜의 진짜 초점 — 월요일 새벽 메모</span><span class="related-date">2026-04-20 · 새벽 리포트 · 06:12</span></a></li><li><a href="2026-04-19-pm22-ai-tech-news.html"><span class="related-title">Opus 4.7 벤치 정리, 알리바바 자체 칩 1만 개 데이터센터 — 주말 마감 메모</span><span class="related-date">2026-04-19 · 저녁 마감 · 22:18</span></a></li><li><a href="2026-04-19-pm17-ai-tech-news.html"><span class="related-title">테슬라 실적 3일 전 — 로보택시 3개 도시, 옵티머스 3세대 지연 속 전망</span><span class="related-date">2026-04-19 · 오후 브리핑 · 17:14</span></a></li></ul>
+    <ul class="related-list"><li><a href="2026-04-20-pm17-ai-tech-news.html"><span class="related-title">Hormuz 재봉쇄로 Brent $95·WTI $87, 이번 주 Tesla(4/22)·SK hynix·Intel(4/23) 삼중 콜 — 월요일 오후 메모</span><span class="related-date">2026-04-20 · 오후 브리핑 · 17:16</span></a></li><li><a href="2026-04-20-pm12-ai-tech-news.html"><span class="related-title">SK hynix HBM4 20~30% 감산설, Samsung이 Rubin 리더로 역전 — 월요일 점심 메모</span><span class="related-date">2026-04-20 · 오전 브리핑 · 12:18</span></a></li><li><a href="2026-04-20-am06-ai-tech-news.html"><span class="related-title">샌디스크 나스닥-100 입성(4/20)·1년 +2,700%, 테슬라 Terafab이 콜의 진짜 초점 — 월요일 새벽 메모</span><span class="related-date">2026-04-20 · 새벽 리포트 · 06:12</span></a></li><li><a href="2026-04-19-pm22-ai-tech-news.html"><span class="related-title">Opus 4.7 벤치 정리, 알리바바 자체 칩 1만 개 데이터센터 — 주말 마감 메모</span><span class="related-date">2026-04-19 · 저녁 마감 · 22:18</span></a></li><li><a href="2026-04-19-pm17-ai-tech-news.html"><span class="related-title">테슬라 실적 3일 전 — 로보택시 3개 도시, 옵티머스 3세대 지연 속 전망</span><span class="related-date">2026-04-19 · 오후 브리핑 · 17:14</span></a></li></ul>
 </section>
 </article>
 

diff --git a/posts/2025-12-21-pm22-ai-tech-news.html b/posts/2025-12-21-pm22-ai-tech-news.html
@@ -200,7 +200,7 @@
     
 <section class="related-posts" aria-label="최근 다른 리포트">
     <div class="related-posts-label">최근 다른 리포트</div>
-    <ul class="related-list"><li><a href="2026-04-20-pm17-ai-tech-news.html"><span class="related-title">Hormuz 재봉쇄로 Brent $95·WTI $87, 이번 주 Tesla(4/22)·SK hynix·Intel(4/23) 삼중 콜 — 월요일 오후 메모</span><span class="related-date">2026-04-20 · 오후 브리핑 · 17:16</span></a></li><li><a href="2026-04-20-pm12-ai-tech-news.html"><span class="related-title">SK hynix HBM4 20~30% 감산설, Samsung이 Rubin 리더로 역전 — 월요일 점심 메모</span><span class="related-date">2026-04-20 · 오전 브리핑 · 12:18</span></a></li><li><a href="2026-04-20-am06-ai-tech-news.html"><span class="related-title">Sandisk Nasdaq-100 입성(4/20)·1년 +2,700%, Tesla Terafab이 콜의 진짜 초점 — 월요일 새벽 메모</span><span class="related-date">2026-04-20 · 새벽 리포트 · 06:12</span></a></li><li><a href="2026-04-19-pm22-ai-tech-news.html"><span class="related-title">Opus 4.7 벤치 정리, 알리바바 자체 칩 1만 개 데이터센터 — 주말 마감 메모</span><span class="related-date">2026-04-19 · 저녁 마감 · 22:18</span></a></li><li><a href="2026-04-19-pm17-ai-tech-news.html"><span class="related-title">테슬라 실적 3일 전 — 로보택시 3개 도시, 옵티머스 3세대 지연 속 전망</span><span class="related-date">2026-04-19 · 오후 브리핑 · 17:14</span></a></li></ul>
+    <ul class="related-list"><li><a href="2026-04-20-pm17-ai-tech-news.html"><span class="related-title">Hormuz 재봉쇄로 Brent $95·WTI $87, 이번 주 Tesla(4/22)·SK hynix·Intel(4/23) 삼중 콜 — 월요일 오후 메모</span><span class="related-date">2026-04-20 · 오후 브리핑 · 17:16</span></a></li><li><a href="2026-04-20-pm12-ai-tech-news.html"><span class="related-title">SK hynix HBM4 20~30% 감산설, Samsung이 Rubin 리더로 역전 — 월요일 점심 메모</span><span class="related-date">2026-04-20 · 오전 브리핑 · 12:18</span></a></li><li><a href="2026-04-20-am06-ai-tech-news.html"><span class="related-title">샌디스크 나스닥-100 입성(4/20)·1년 +2,700%, 테슬라 Terafab이 콜의 진짜 초점 — 월요일 새벽 메모</span><span class="related-date">2026-04-20 · 새벽 리포트 · 06:12</span></a></li><li><a href="2026-04-19-pm22-ai-tech-news.html"><span class="related-title">Opus 4.7 벤치 정리, 알리바바 자체 칩 1만 개 데이터센터 — 주말 마감 메모</span><span class="related-date">2026-04-19 · 저녁 마감 · 22:18</span></a></li><li><a href="2026-04-19-pm17-ai-tech-news.html"><span class="related-title">테슬라 실적 3일 전 — 로보택시 3개 도시, 옵티머스 3세대 지연 속 전망</span><span class="related-date">2026-04-19 · 오후 브리핑 · 17:14</span></a></li></ul>
 </section>
 </article>
 

diff --git a/posts/2025-12-23-pm21-ai-tech-news.html b/posts/2025-12-23-pm21-ai-tech-news.html
@@ -192,7 +192,7 @@
     
 <section class="related-posts" aria-label="최근 다른 리포트">
     <div class="related-posts-label">최근 다른 리포트</div>
-    <ul class="related-list"><li><a href="2026-04-20-pm17-ai-tech-news.html"><span class="related-title">Hormuz 재봉쇄로 Brent $95·WTI $87, 이번 주 Tesla(4/22)·SK hynix·Intel(4/23) 삼중 콜 — 월요일 오후 메모</span><span class="related-date">2026-04-20 · 오후 브리핑 · 17:16</span></a></li><li><a href="2026-04-20-pm12-ai-tech-news.html"><span class="related-title">SK hynix HBM4 20~30% 감산설, Samsung이 Rubin 리더로 역전 — 월요일 점심 메모</span><span class="related-date">2026-04-20 · 오전 브리핑 · 12:18</span></a></li><li><a href="2026-04-20-am06-ai-tech-news.html"><span class="related-title">Sandisk Nasdaq-100 입성(4/20)·1년 +2,700%, Tesla Terafab이 콜의 진짜 초점 — 월요일 새벽 메모</span><span class="related-date">2026-04-20 · 새벽 리포트 · 06:12</span></a></li><li><a href="2026-04-19-pm22-ai-tech-news.html"><span class="related-title">Opus 4.7 벤치 정리, 알리바바 자체 칩 1만 개 데이터센터 — 주말 마감 메모</span><span class="related-date">2026-04-19 · 저녁 마감 · 22:18</span></a></li><li><a href="2026-04-19-pm17-ai-tech-news.html"><span class="related-title">테슬라 실적 3일 전 — 로보택시 3개 도시, 옵티머스 3세대 지연 속 전망</span><span class="related-date">2026-04-19 · 오후 브리핑 · 17:14</span></a></li></ul>
+    <ul class="related-list"><li><a href="2026-04-20-pm17-ai-tech-news.html"><span class="related-title">Hormuz 재봉쇄로 Brent $95·WTI $87, 이번 주 Tesla(4/22)·SK hynix·Intel(4/23) 삼중 콜 — 월요일 오후 메모</span><span class="related-date">2026-04-20 · 오후 브리핑 · 17:16</span></a></li><li><a href="2026-04-20-pm12-ai-tech-news.html"><span class="related-title">SK hynix HBM4 20~30% 감산설, Samsung이 Rubin 리더로 역전 — 월요일 점심 메모</span><span class="related-date">2026-04-20 · 오전 브리핑 · 12:18</span></a></li><li><a href="2026-04-20-am06-ai-tech-news.html"><span class="related-title">샌디스크 나스닥-100 입성(4/20)·1년 +2,700%, 테슬라 Terafab이 콜의 진짜 초점 — 월요일 새벽 메모</span><span class="related-date">2026-04-20 · 새벽 리포트 · 06:12</span></a></li><li><a href="2026-04-19-pm22-ai-tech-news.html"><span class="related-title">Opus 4.7 벤치 정리, 알리바바 자체 칩 1만 개 데이터센터 — 주말 마감 메모</span><span class="related-date">2026-04-19 · 저녁 마감 · 22:18</span></a></li><li><a href="2026-04-19-pm17-ai-tech-news.html"><span class="related-title">테슬라 실적 3일 전 — 로보택시 3개 도시, 옵티머스 3세대 지연 속 전망</span><span class="related-date">2026-04-19 · 오후 브리핑 · 17:14</span></a></li></ul>
 </section>
 </article>
 

diff --git a/posts/2025-12-31-pm22-ai-tech-news.html b/posts/2025-12-31-pm22-ai-tech-news.html
@@ -248,7 +248,7 @@
     
 <section class="related-posts" aria-label="최근 다른 리포트">
     <div class="related-posts-label">최근 다른 리포트</div>
-    <ul class="related-list"><li><a href="2026-04-20-pm17-ai-tech-news.html"><span class="related-title">Hormuz 재봉쇄로 Brent $95·WTI $87, 이번 주 Tesla(4/22)·SK hynix·Intel(4/23) 삼중 콜 — 월요일 오후 메모</span><span class="related-date">2026-04-20 · 오후 브리핑 · 17:16</span></a></li><li><a href="2026-04-20-pm12-ai-tech-news.html"><span class="related-title">SK hynix HBM4 20~30% 감산설, Samsung이 Rubin 리더로 역전 — 월요일 점심 메모</span><span class="related-date">2026-04-20 · 오전 브리핑 · 12:18</span></a></li><li><a href="2026-04-20-am06-ai-tech-news.html"><span class="related-title">Sandisk Nasdaq-100 입성(4/20)·1년 +2,700%, Tesla Terafab이 콜의 진짜 초점 — 월요일 새벽 메모</span><span class="related-date">2026-04-20 · 새벽 리포트 · 06:12</span></a></li><li><a href="2026-04-19-pm22-ai-tech-news.html"><span class="related-title">Opus 4.7 벤치 정리, 알리바바 자체 칩 1만 개 데이터센터 — 주말 마감 메모</span><span class="related-date">2026-04-19 · 저녁 마감 · 22:18</span></a></li><li><a href="2026-04-19-pm17-ai-tech-news.html"><span class="related-title">테슬라 실적 3일 전 — 로보택시 3개 도시, 옵티머스 3세대 지연 속 전망</span><span class="related-date">2026-04-19 · 오후 브리핑 · 17:14</span></a></li></ul>
+    <ul class="related-list"><li><a href="2026-04-20-pm17-ai-tech-news.html"><span class="related-title">Hormuz 재봉쇄로 Brent $95·WTI $87, 이번 주 Tesla(4/22)·SK hynix·Intel(4/23) 삼중 콜 — 월요일 오후 메모</span><span class="related-date">2026-04-20 · 오후 브리핑 · 17:16</span></a></li><li><a href="2026-04-20-pm12-ai-tech-news.html"><span class="related-title">SK hynix HBM4 20~30% 감산설, Samsung이 Rubin 리더로 역전 — 월요일 점심 메모</span><span class="related-date">2026-04-20 · 오전 브리핑 · 12:18</span></a></li><li><a href="2026-04-20-am06-ai-tech-news.html"><span class="related-title">샌디스크 나스닥-100 입성(4/20)·1년 +2,700%, 테슬라 Terafab이 콜의 진짜 초점 — 월요일 새벽 메모</span><span class="related-date">2026-04-20 · 새벽 리포트 · 06:12</span></a></li><li><a href="2026-04-19-pm22-ai-tech-news.html"><span class="related-title">Opus 4.7 벤치 정리, 알리바바 자체 칩 1만 개 데이터센터 — 주말 마감 메모</span><span class="related-date">2026-04-19 · 저녁 마감 · 22:18</span></a></li><li><a href="2026-04-19-pm17-ai-tech-news.html"><span class="related-title">테슬라 실적 3일 전 — 로보택시 3개 도시, 옵티머스 3세대 지연 속 전망</span><span class="related-date">2026-04-19 · 오후 브리핑 · 17:14</span></a></li></ul>
 </section>
 </article>
 
